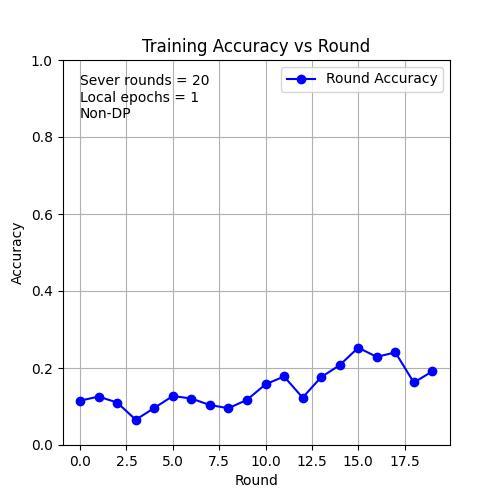
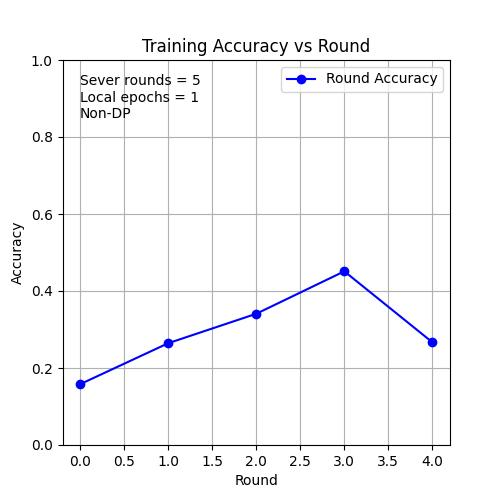
choose strategy and fmnist

Changed region(s): [[0.15, 0.12, 0.9, 0.93], [0.24, 0.12, 0.27, 0.21]]

diff --git a/pytorchexample/task.py b/pytorchexample/task.py
@@ -7,30 +7,36 @@ from datasets import load_dataset
 from flwr_datasets import FederatedDataset
 from flwr_datasets.partitioner import IidPartitioner, DirichletPartitioner
 from torch.utils.data import DataLoader
-from torchvision.transforms import Compose, Normalize, ToTensor
+from torchvision.transforms import (
+    Compose,
+    Normalize,
+    ToTensor,
+)
 from opacus.utils.batch_memory_manager import BatchMemoryManager
 from opacus import PrivacyEngine
 
 
+FM_NORMALIZATION = ((0.1307,), (0.3081,))
+TRANSFORMS = Compose([ToTensor(), Normalize(*FM_NORMALIZATION)])
+
+# I probably will need a unique model to work with every dataset I'm going to use :)
 class Net(nn.Module):
     """Model (simple CNN adapted from 'PyTorch: A 60 Minute Blitz')"""
 
     def __init__(self):
-        super(Net, self).__init__()
-        self.conv1 = nn.Conv2d(3, 6, 5)
+        super().__init__()
+        self.conv1 = nn.Conv2d(1, 16, 5)
         self.pool = nn.MaxPool2d(2, 2)
-        self.conv2 = nn.Conv2d(6, 16, 5)
-        self.fc1 = nn.Linear(16 * 5 * 5, 120)
-        self.fc2 = nn.Linear(120, 84)
-        self.fc3 = nn.Linear(84, 10)
+        self.conv2 = nn.Conv2d(16, 32, 5)
+        self.fc1 = nn.Linear(32 * 4 * 4, 128)
+        self.fc2 = nn.Linear(128, 10)
 
     def forward(self, x):
         x = self.pool(F.relu(self.conv1(x)))
         x = self.pool(F.relu(self.conv2(x)))
-        x = x.view(-1, 16 * 5 * 5)
+        x = x.view(-1, 32 * 4 * 4)
         x = F.relu(self.fc1(x))
-        x = F.relu(self.fc2(x))
-        return self.fc3(x)
+        return self.fc2(x)
 
 
 fds = None  # Cache FederatedDataset
@@ -38,9 +44,10 @@ fds = None  # Cache FederatedDataset
 pytorch_transforms = Compose([ToTensor(), Normalize((0.5, 0.5, 0.5), (0.5, 0.5, 0.5))])
 
 
+
 def apply_transforms(batch):
     """Apply transforms to the partition from FederatedDataset."""
-    batch["img"] = [pytorch_transforms(img) for img in batch["img"]]
+    batch["image"] = [TRANSFORMS(img) for img in batch["image"]]
     return batch
 
 # Add the partition_by variable. To run this on two datasets it will have to be variable.
@@ -53,12 +60,10 @@ def load_data(partition_id: int, num_partitions: int, batch_size: int, alpha: fl
             num_partitions=num_partitions,
             partition_by='label',
             alpha=alpha,
-            min_partition_size=min_partition_size,
-            self_balancing=True,
-            seed=5
+            seed=42
         )
         fds = FederatedDataset(
-            dataset="uoft-cs/cifar10",
+            dataset="zalando-datasets/fashion_mnist",
             partitioners={"train": partitioner},
         )
     partition = fds.load_partition(partition_id)
@@ -76,9 +81,9 @@ def load_data(partition_id: int, num_partitions: int, batch_size: int, alpha: fl
 def load_centralized_dataset():
     """Load test set and return dataloader."""
     # Load entire test set
-    test_dataset = load_dataset("uoft-cs/cifar10", split="test")
+    test_dataset = load_dataset("zalando-datasets/fashion_mnist", split="test")
     dataset = test_dataset.with_format("torch").with_transform(apply_transforms)
-    return DataLoader(dataset, batch_size=128)
+    return DataLoader(dataset, batch_size=64)
 
 """
 def train(net, trainloader, epochs, lr, device, optimizer, max_physical_batch_size,epsilon,delta,privacy_engine):
@@ -113,7 +118,7 @@ def train(net, trainloader, epochs, lr, device, max_physical_batch_size, context
     """Train the model on the training set."""
     net.to(device)  # move model to GPU if available
     criterion = torch.nn.CrossEntropyLoss().to(device)
-    optimizer = torch.optim.SGD(net.parameters(), lr=0.01, momentum=0.9)
+    optimizer = torch.optim.SGD(net.parameters(), lr=lr, momentum=0.9)
     running_loss = 0.0
     i = 0
     # DP Enabled training
@@ -137,7 +142,7 @@ def train(net, trainloader, epochs, lr, device, max_physical_batch_size, context
             for _ in range(epochs):
                 for batch in memory_safe_data_loader:
                     optimizer.zero_grad()
-                    images = batch['img'].to(device)
+                    images = batch['image'].to(device)
                     labels = batch['label'].to(device)
                     loss = criterion(net(images), labels)
                     loss.backward()
@@ -153,7 +158,7 @@ def train(net, trainloader, epochs, lr, device, max_physical_batch_size, context
         for _ in range(epochs):
             for batch in trainloader:
                 optimizer.zero_grad()
-                images = batch['img'].to(device)
+                images = batch['image'].to(device)
                 labels = batch['label'].to(device)
                 loss = criterion(net(images), labels)
                 loss.backward()
@@ -170,7 +175,7 @@ def test(net, testloader, device):
     correct, loss = 0, 0.0
     with torch.no_grad():
         for batch in testloader:
-            images = batch["img"].to(device)
+            images = batch["image"].to(device)
             labels = batch["label"].to(device)
             outputs = net(images)
             loss += criterion(outputs, labels).item()

diff --git a/pytorchexample/server_app.py b/pytorchexample/server_app.py
@@ -3,7 +3,7 @@
 import torch
 from flwr.app import ArrayRecord, ConfigRecord, Context, MetricRecord
 from flwr.serverapp import Grid, ServerApp
-from flwr.serverapp.strategy import FedAvg
+from flwr.serverapp.strategy import FedAvg, QFedAvg
 import matplotlib.pyplot as plt
 import numpy as np
 import pandas as pd
@@ -30,13 +30,13 @@ def main(grid: Grid, context: Context) -> None:
 
     # Initialize FedAvg strategy
     # Fraction_train determines how many possible nodes will be used in training.
-    strategy = FedAvg(fraction_evaluate=fraction_evaluate, fraction_train=fraction_train)
+    strategy = choose_strat(context,lr,fraction_evaluate,fraction_train)
 
     # Start strategy, run FedAvg for `num_rounds`
     result = strategy.start(
         grid=grid,
         initial_arrays=arrays,
-        train_config=ConfigRecord({"lr": lr}),
+        #train_config=ConfigRecord({"lr": lr}),
         num_rounds=num_rounds,
         evaluate_fn=global_evaluate,
     )
@@ -87,3 +87,20 @@ def global_evaluate(server_round: int, arrays: ArrayRecord) -> MetricRecord:
 
     # Return the evaluation metrics
     return MetricRecord({"accuracy": test_acc, "loss": test_loss})
+
+def choose_strat(context,lr,fraction_evaluate,fraction_train):
+    strategy = context.run_config['strategy']
+    if strategy == 'q-fedavg':
+        q=context.run_config["q"]
+        return QFedAvg(
+            client_learning_rate=lr,
+            q=q,
+            fraction_evaluate=fraction_evaluate,
+            fraction_train=fraction_train,
+            train_loss_key = "train_loss"
+            )
+    else:
+        return FedAvg(
+            fraction_evaluate=fraction_evaluate,
+            fraction_train=fraction_train
+            )

diff --git a/pytorchexample/client_app.py b/pytorchexample/client_app.py
@@ -31,7 +31,7 @@ def train(msg: Message, context: Context):
     trainloader, _ = load_data(partition_id, num_partitions, batch_size, alpha, min_partition_size)
 
     max_physical_batch_size = context.run_config["max-physical-batch-size"]
-    lr = msg.content["config"]["lr"]
+    lr = context.run_config['learning-rate']
     epochs = context.run_config["local-epochs"]
     train_loss = train_fn(
         model,
@@ -42,6 +42,7 @@ def train(msg: Message, context: Context):
         max_physical_batch_size,
         context
     )
+    print(train_loss)
 
     # Construct and return reply Message
     #arrays = {key[8:]: value for key, value in model.state_dict().items()}